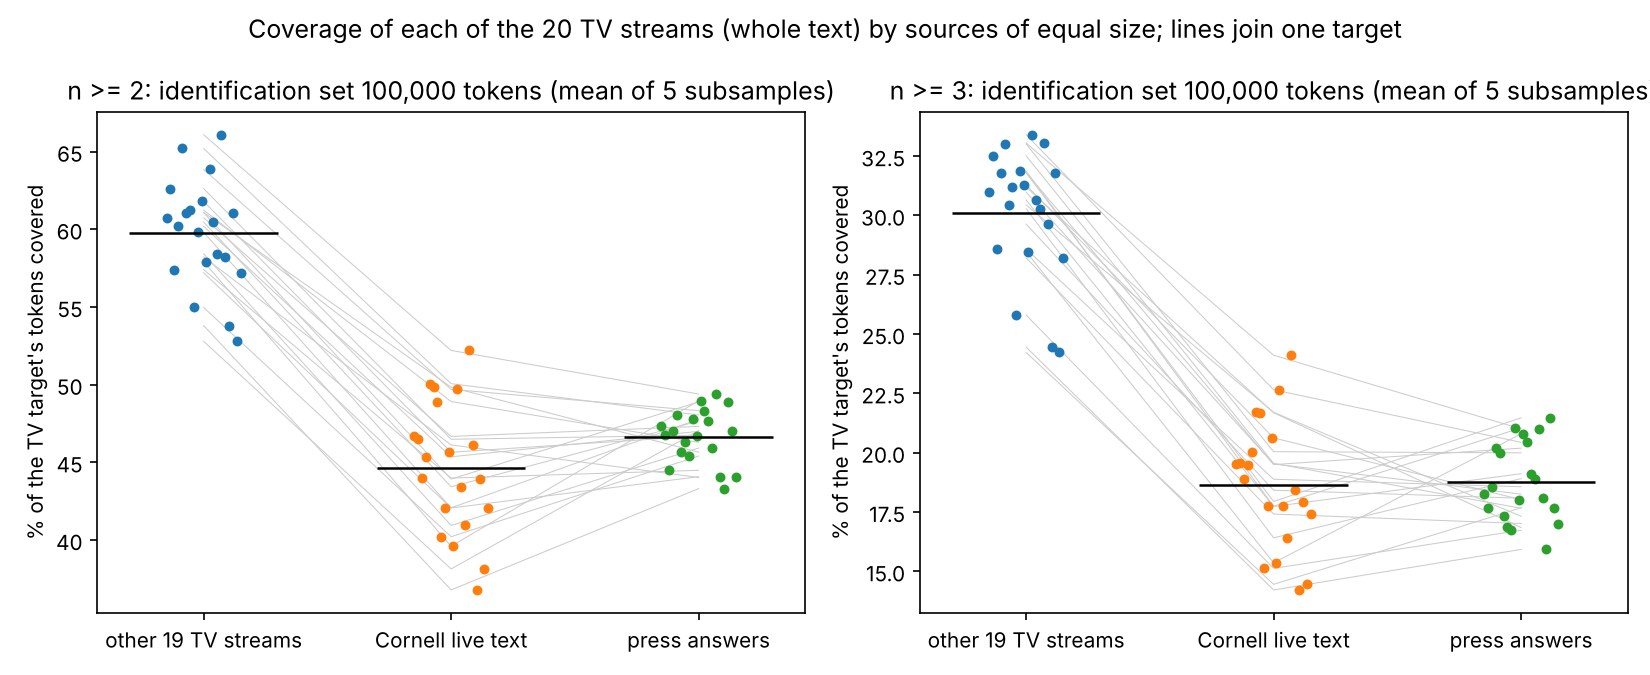
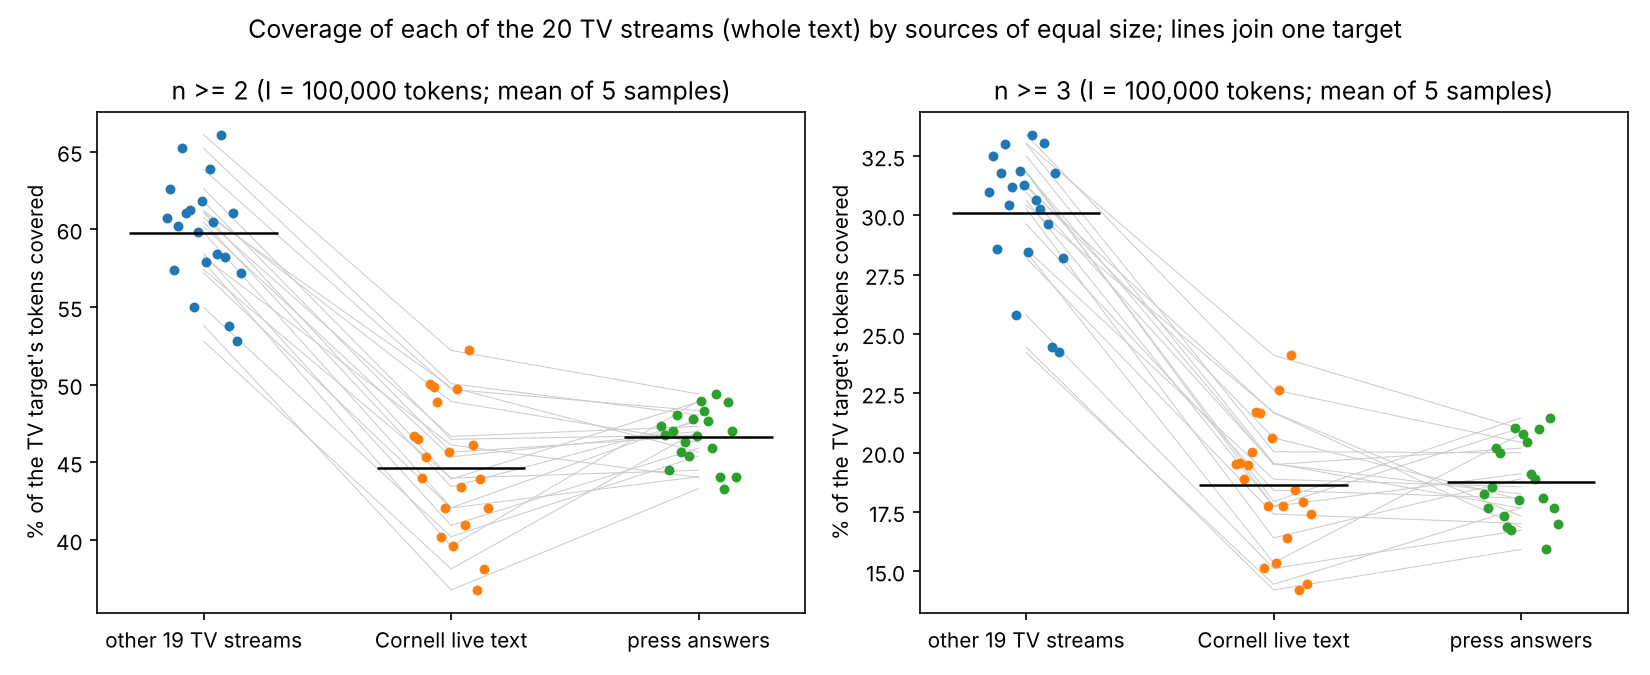
parry: revisions after critic v1
Claude-Session: https://claude.ai/code/session_012ZGgYHBfDEkaEd8U9ZAJR5

Changed region(s): [[0.0309, 0.0933, 1.0, 0.1556]]

diff --git a/analysis/parry/make_report.py b/analysis/parry/make_report.py
@@ -415,7 +415,7 @@ def main():
           f"and {pc(sA['touching'], 0)}% touch it (chance {pc(sA['touching_chance_mean'], 0)}%).")
         cv = {k: csc[k] for k in csc if k.startswith("coder_spans_") or k.startswith("references_")}
         rA, rB = csc.get("references_A_commentary_only_context"), csc.get("references_B_commentary_only_context")
-        w(f"* **Slot classifier.** In span mode (used for formula spans: Tables 2.11, 2.G, 4.7) it agrees with the coders' slot labels on "
+        w(f"* **Slot classifier.** In span mode (used for formula spans: Tables 2.11, 2.E-2.G, 4.7) it agrees with the coders' slot labels on "
           f"{pc(cv['coder_spans_A_span']['agreement'], 0)}% / {pc(cv['coder_spans_B_span']['agreement'], 0)}% of their spans (kappa "
           f"{num(cv['coder_spans_A_span']['kappa'], 2)} / {num(cv['coder_spans_B_span']['kappa'], 2)}); in context mode (used for the situational slot of a reference in "
           f"H4) on {pc(cv['coder_spans_A_context']['agreement'], 0)}% / {pc(cv['coder_spans_B_context']['agreement'], 0)}% of coder spans (kappa "
@@ -484,7 +484,7 @@ def main():
       "enters the pooled inventory. With the inventory identified on the other 19 streams (post hoc), "
       + (f"{len(loso_sig)} of {len(e1l)} slots still do ({', '.join(loso_sig)})" if loso_sig else f"none of the {len(e1l)} slots does")
       + (": streams reuse their own selection of strings that other streams also use (a stream being one match and one broadcaster)" if len(loso_sig) == len(e1l)
-         else "") + " (Table 4.7b).")
+         else "") + "; Table 4.7b.")
     hs = h5p[0]
     w(f"* **Extension (H5).** No association was detected between the syllable length of a reference and the time available after its clip: weighted within-stream "
       f"rho = {num(h5['rho_weighted'], 3)} (stream bootstrap {ci(h5['boot_lo'], h5['boot_hi'], 3, 1)}; permutation p = {pval(h5['p_two'])}; {h5['tokens']} references "

diff --git a/analysis/parry/report.md b/analysis/parry/report.md
@@ -17,11 +17,11 @@ Generated by `analysis/parry/make_report.py` from `analysis/parry/results/`; rer
 * **Clusters (exploratory).** Pairs from the same slam share more (excess 0.65 pp above other pairs; permutation p = 1.0e-04), which mixes broadcaster with venue and surface vocabulary. The only commentator-hint cluster with two members (the 2019 and 2023 Wimbledon finals, 'Tim') ranks 44 of 190 pairs (p = 0.2316): no sign that the hinted pair shares more than other pairs. Inventory overlap rises with shared players (Mantel r = 0.29, p = 0.0008).
 * **Is the 2019 figure typical?** With the other 19 streams as identification set, 2019's coverage (raw tokens, n >= 2) ranks 13 of 20 (median 57.3%, range 50.2-64.4%); the Phase 2 value with the 18-stream pool is reproduced (55.03%).
 * **Calibration (2b.2; the coders are two LLM agents).** The coders agree with each other at token-level kappa 0.77 [0.75, 0.80]. The automatic measures agree with them less than half as well: kappa 0.13-0.22 for the six measures of the brief against every coder reference set (0.11-0.22 with the exploratory measures); against the union of the coders precision exceeds its chance level (the coders' positive share, 0.28) by 0.07-0.16 and recall exceeds its chance level (the measure's own positive share) by 0.10-0.17. The Phase 2 measure (pool n >= 2) marks 54% of tokens: precision 0.35 (chance 0.28, ceiling 0.52), recall 0.68 (chance 0.54), kappa 0.16 [0.14, 0.18]; pool n >= 3: kappa 0.15, precision 0.39, recall 0.35 (chance 0.25); systems: kappa 0.22, precision 0.41, recall 0.55. Every automatic measure is therefore a weak proxy for the coders' judgement (kappa below 0.40 against every reference set). The higher precision on the 2019 utterances (0.43 vs 0.27 for coder A) is mostly a base rate (precision minus chance 0.09 vs 0.06): chance precision is 0.34 vs 0.21 (median utterance 26 vs 59 tokens; kappa 0.19 vs 0.12). At span level, 64% of coder A's HIGH spans lie wholly inside pool n >= 2 coverage (chance, by circular shifts: 35%) and 89% touch it (chance 79%).
-* **Slot classifier.** In span mode (used for formula spans: Tables 2.11, 2.G, 4.7) it agrees with the coders' slot labels on 58% / 57% of their spans (kappa 0.49 / 0.48); in context mode (used for the situational slot of a reference in H4) on 26% / 26% of coder spans (kappa 0.14 / 0.15) and on 46% / 49% of the commentary references that lie inside a coder span (kappa 0.35 / 0.39; n = 65 / 69). Slot labels this noisy (kappa below 0.6) attenuate any association between slot and form (H4b) toward zero and make per-slot attributions unreliable.
+* **Slot classifier.** In span mode (used for formula spans: Tables 2.11, 2.E-2.G, 4.7) it agrees with the coders' slot labels on 58% / 57% of their spans (kappa 0.49 / 0.48); in context mode (used for the situational slot of a reference in H4) on 26% / 26% of coder spans (kappa 0.14 / 0.15) and on 46% / 49% of the commentary references that lie inside a coder span (kappa 0.35 / 0.39; n = 65 / 69). Slot labels this noisy (kappa below 0.6) attenuate any association between slot and form (H4b) toward zero and make per-slot attributions unreliable.
 * **Naming habits (H4a).** Over 2833 commentary-only references to the players, the bare surname is 73%, the first name 12%, the full name 7%, hypocoristics 5% and descriptive epithets 3% (at most 4% if every unresolved epithet referred to a player). Streams (team, match and broadcaster together) differ in naming habits: 303 distinct stream x slot x category cells against 388.4 expected (p = 1.0e-04; surname 33-98% and first name 0-41% of references by stream). Verdict after the post hoc checks: **rejected (robust)** (p 1.0e-05-5.0e-05 over 8 seeds and variants, among them surname, first and full name only: p = 5.0e-05; leave-one-stream-out p <= 0.0002).
 * **Slot-bound form choice (H4b).** Pre-registered: 472 distinct stream x player x slot forms against 483.3 expected, p = 0.0221, Holm p = 0.0442 (rejected). Verdict after the post hoc checks: **not robust / inconclusive**. With 100,000 permutations at three seeds p = 0.0233-0.0236 (Holm 0.0465-0.0473); without hypocoristic and epithet forms p = 0.0646; surname and first name only p = 0.1232; with the span-mode slot p = 0.0055 (span mode lets the reference's own words enter the classifier, e.g. an epithet containing `number one` counts as STAT, so this variant can favour rejection); without the 3 streams with hypocoristics p = 0.0443; one reference per player per utterance p = 0.0097; leaving out one stream at a time p = 0.0104-0.0902 (17 of 20 below 0.05). Per stream, 2 of 20 situational and 3 of 20 syntactic tests reach p < 0.05 (1 expected each). The transcripts have no speaker labels, so a play-by-play voice and an analyst voice that differ both in naming and in typical slot would produce the same deficit; H4b cannot separate that from slot-conditioned choice. No stream shows the Parryan pattern of one form per slot with different forms in different slots (situational slots: not one form per slot: 18 streams; one form throughout (economy without slot conditioning): 2 streams); the economy that exists is a stream's habitual naming, chiefly the surname.
 * **Functional equivalents (E2, exploratory).** Of 16 tested equivalence classes (17 declared; the others have one attested form), stream choice among the alternatives is more consistent than chance (unadjusted p < 0.05, fewer forms per stream) for speed_unit (p = 1.0e-04), along_the_line (p = 0.0018), match_point (p = 0.0207), serve_wide (p = 0.0381); not for tied_at_forty, break_chance, net_error, serve_centre, serve_body, small_degree, praise_stroke, well_played, obligation, opinion_hedge, major_titles, audience. Of the 32 E2 p-values 10 are below 0.05 (1.6 expected); after a Bonferroni bound over the 32, only speed_unit remains.
-* **Formula economy per slot (E1, exploratory).** With the inventory identified on all 20 streams pooled, every slot shows fewer distinct formula types per stream than chance; this is guaranteed by construction, because a string repeated inside one stream only enters the pooled inventory. With the inventory identified on the other 19 streams (post hoc), 7 of 7 slots still do (SCORE, OFFICIAL, SHOT, JUDGE, STAT, CROWD, OTHER): streams reuse their own selection of strings that other streams also use (a stream being one match and one broadcaster) (Table 4.7b).
+* **Formula economy per slot (E1, exploratory).** With the inventory identified on all 20 streams pooled, every slot shows fewer distinct formula types per stream than chance; this is guaranteed by construction, because a string repeated inside one stream only enters the pooled inventory. With the inventory identified on the other 19 streams (post hoc), 7 of 7 slots still do (SCORE, OFFICIAL, SHOT, JUDGE, STAT, CROWD, OTHER): streams reuse their own selection of strings that other streams also use (a stream being one match and one broadcaster); Table 4.7b.
 * **Extension (H5).** No association was detected between the syllable length of a reference and the time available after its clip: weighted within-stream rho = 0.028 (stream bootstrap [-0.012, 0.068]; permutation p = 0.1402; 2811 references in 20 streams; minimum detectable rho about 0.053); with the stored time field, valid in all 20 streams since the corpus correction, rho = 0.025, p = 0.1891 (post hoc).
 * **2b-primary family (Holm, 7 tests; section 5).** Rejected as pre-registered: H1a, H1b, H2a, H2b, H4a, H4b; not rejected: H5. Read with the post hoc checks: H1a/H1b: most of the detected excess is also reached by the baseline sources; H2a/H2b on observed coverage: 0.53 [0.12, 1.01] and 3.10 [2.46, 3.84] pp (both above 0), 15.1 and 13.1 pp with 100,000-token sources; H4a: rejected (robust); H4b: not robust / inconclusive; H5: not rejected.
 
